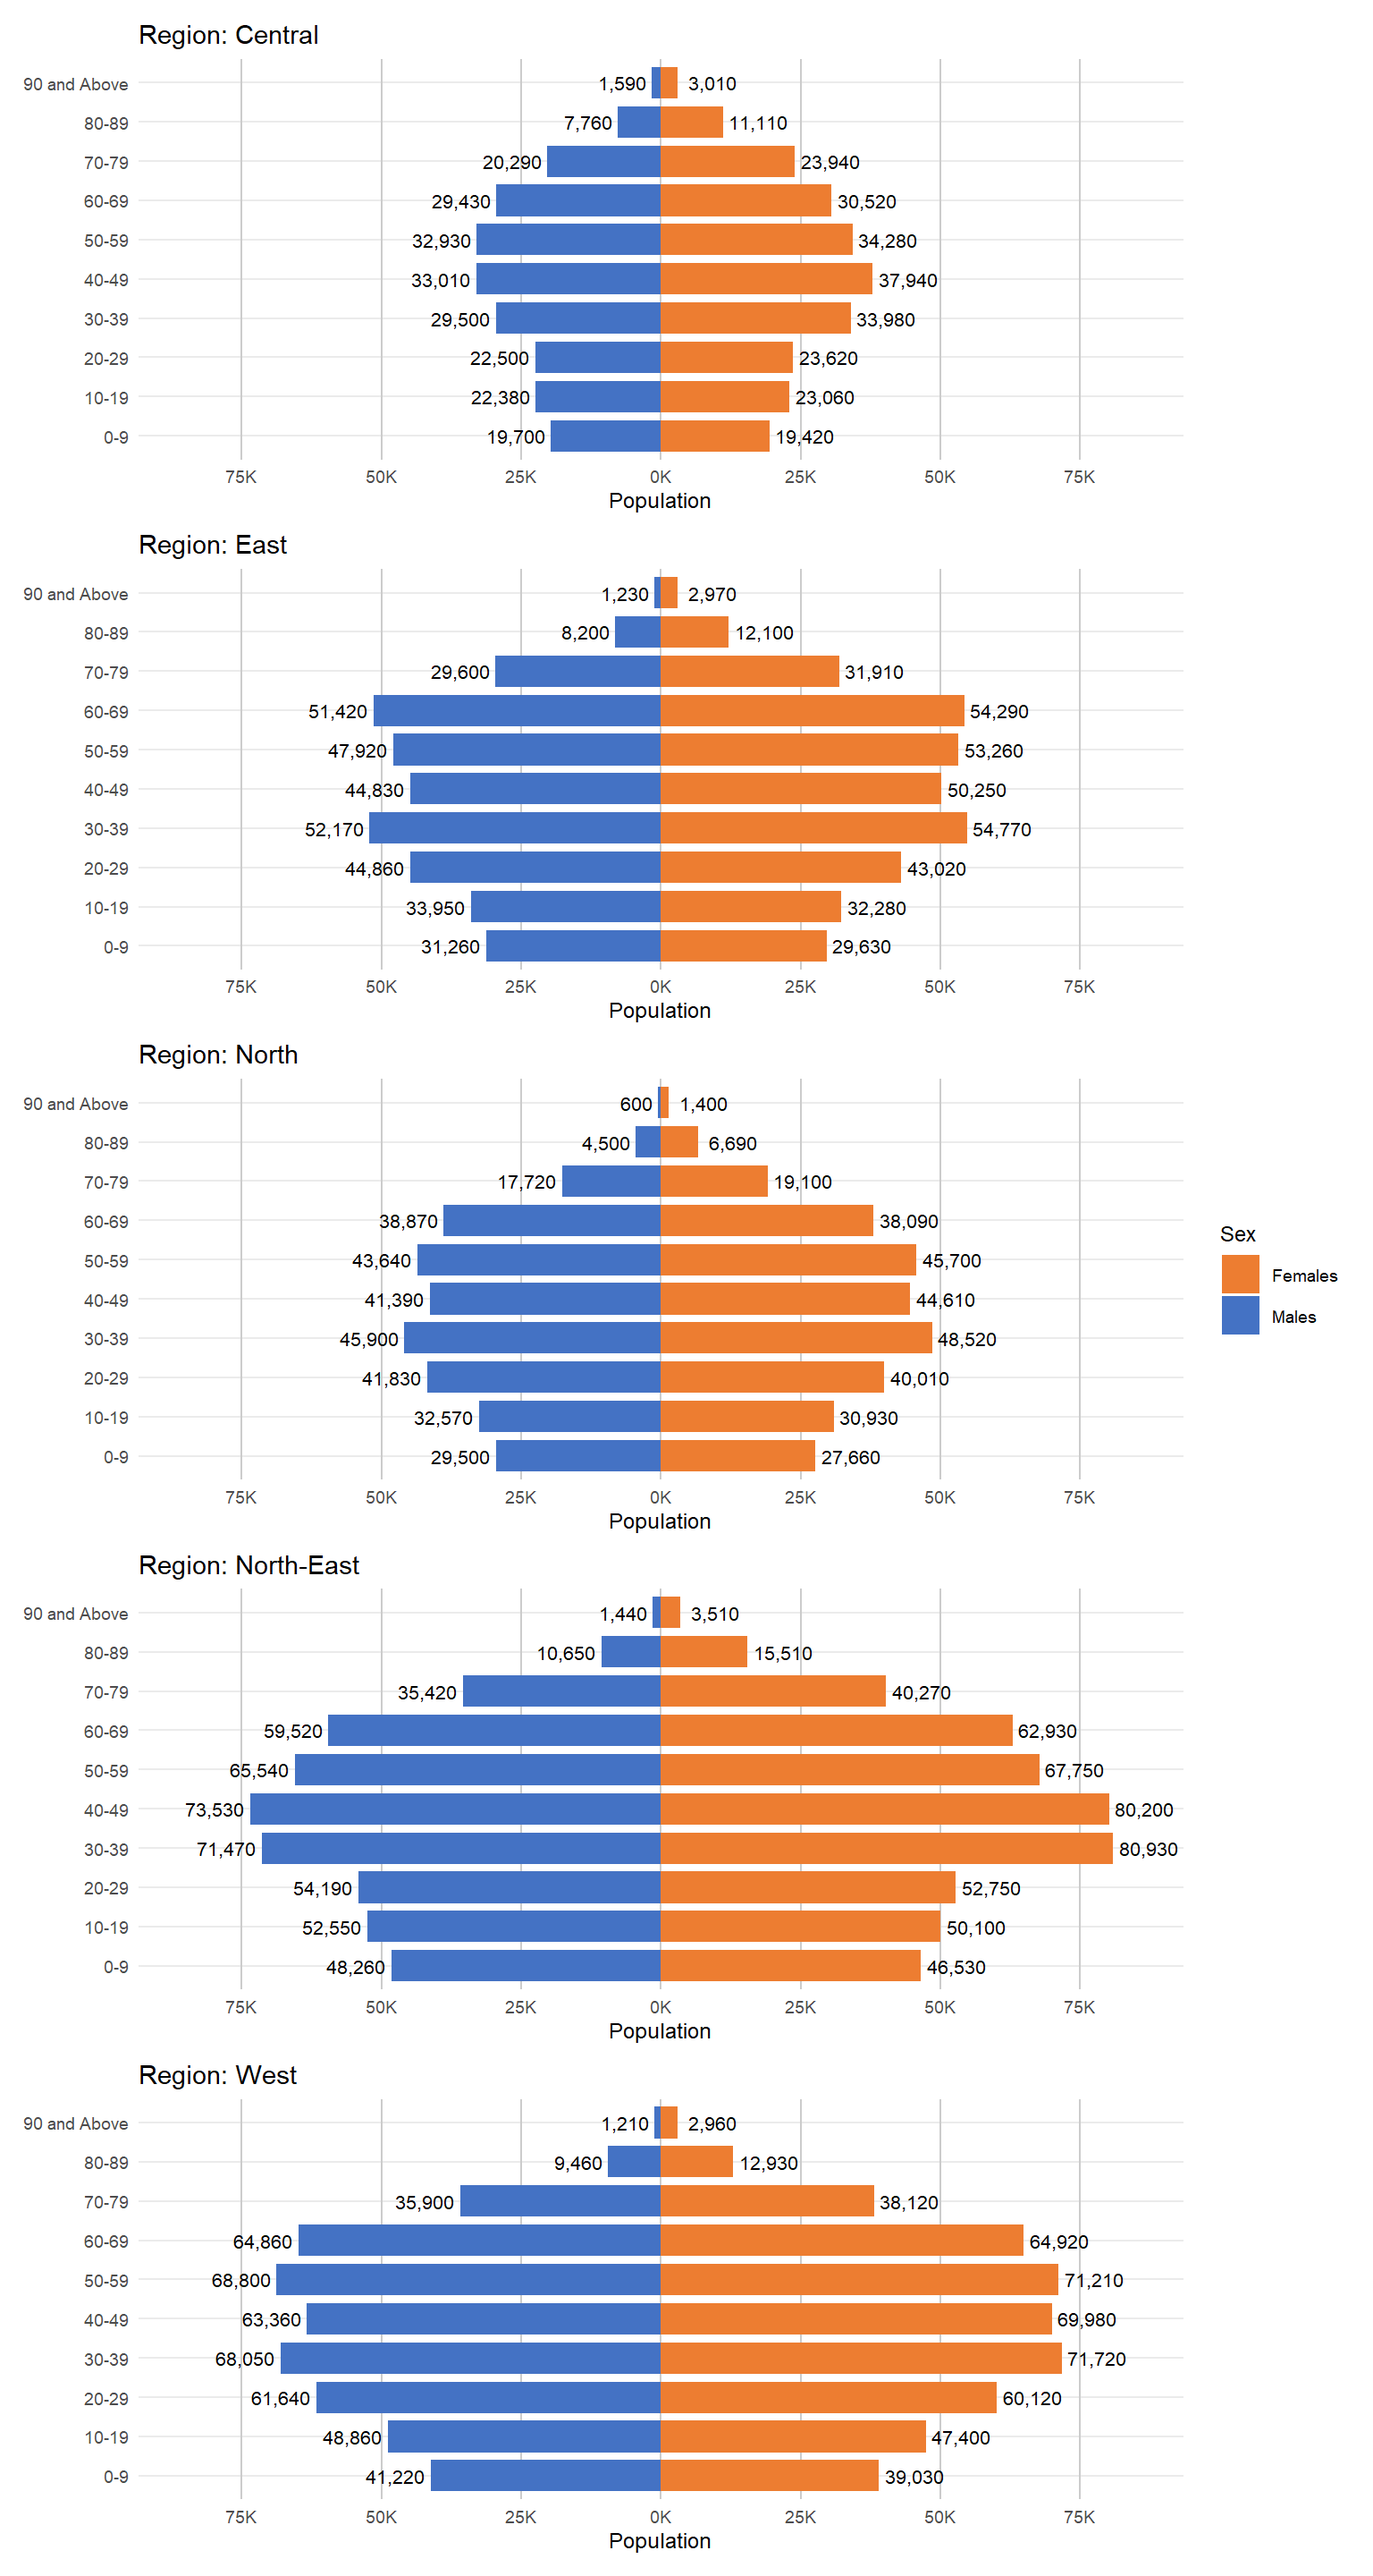
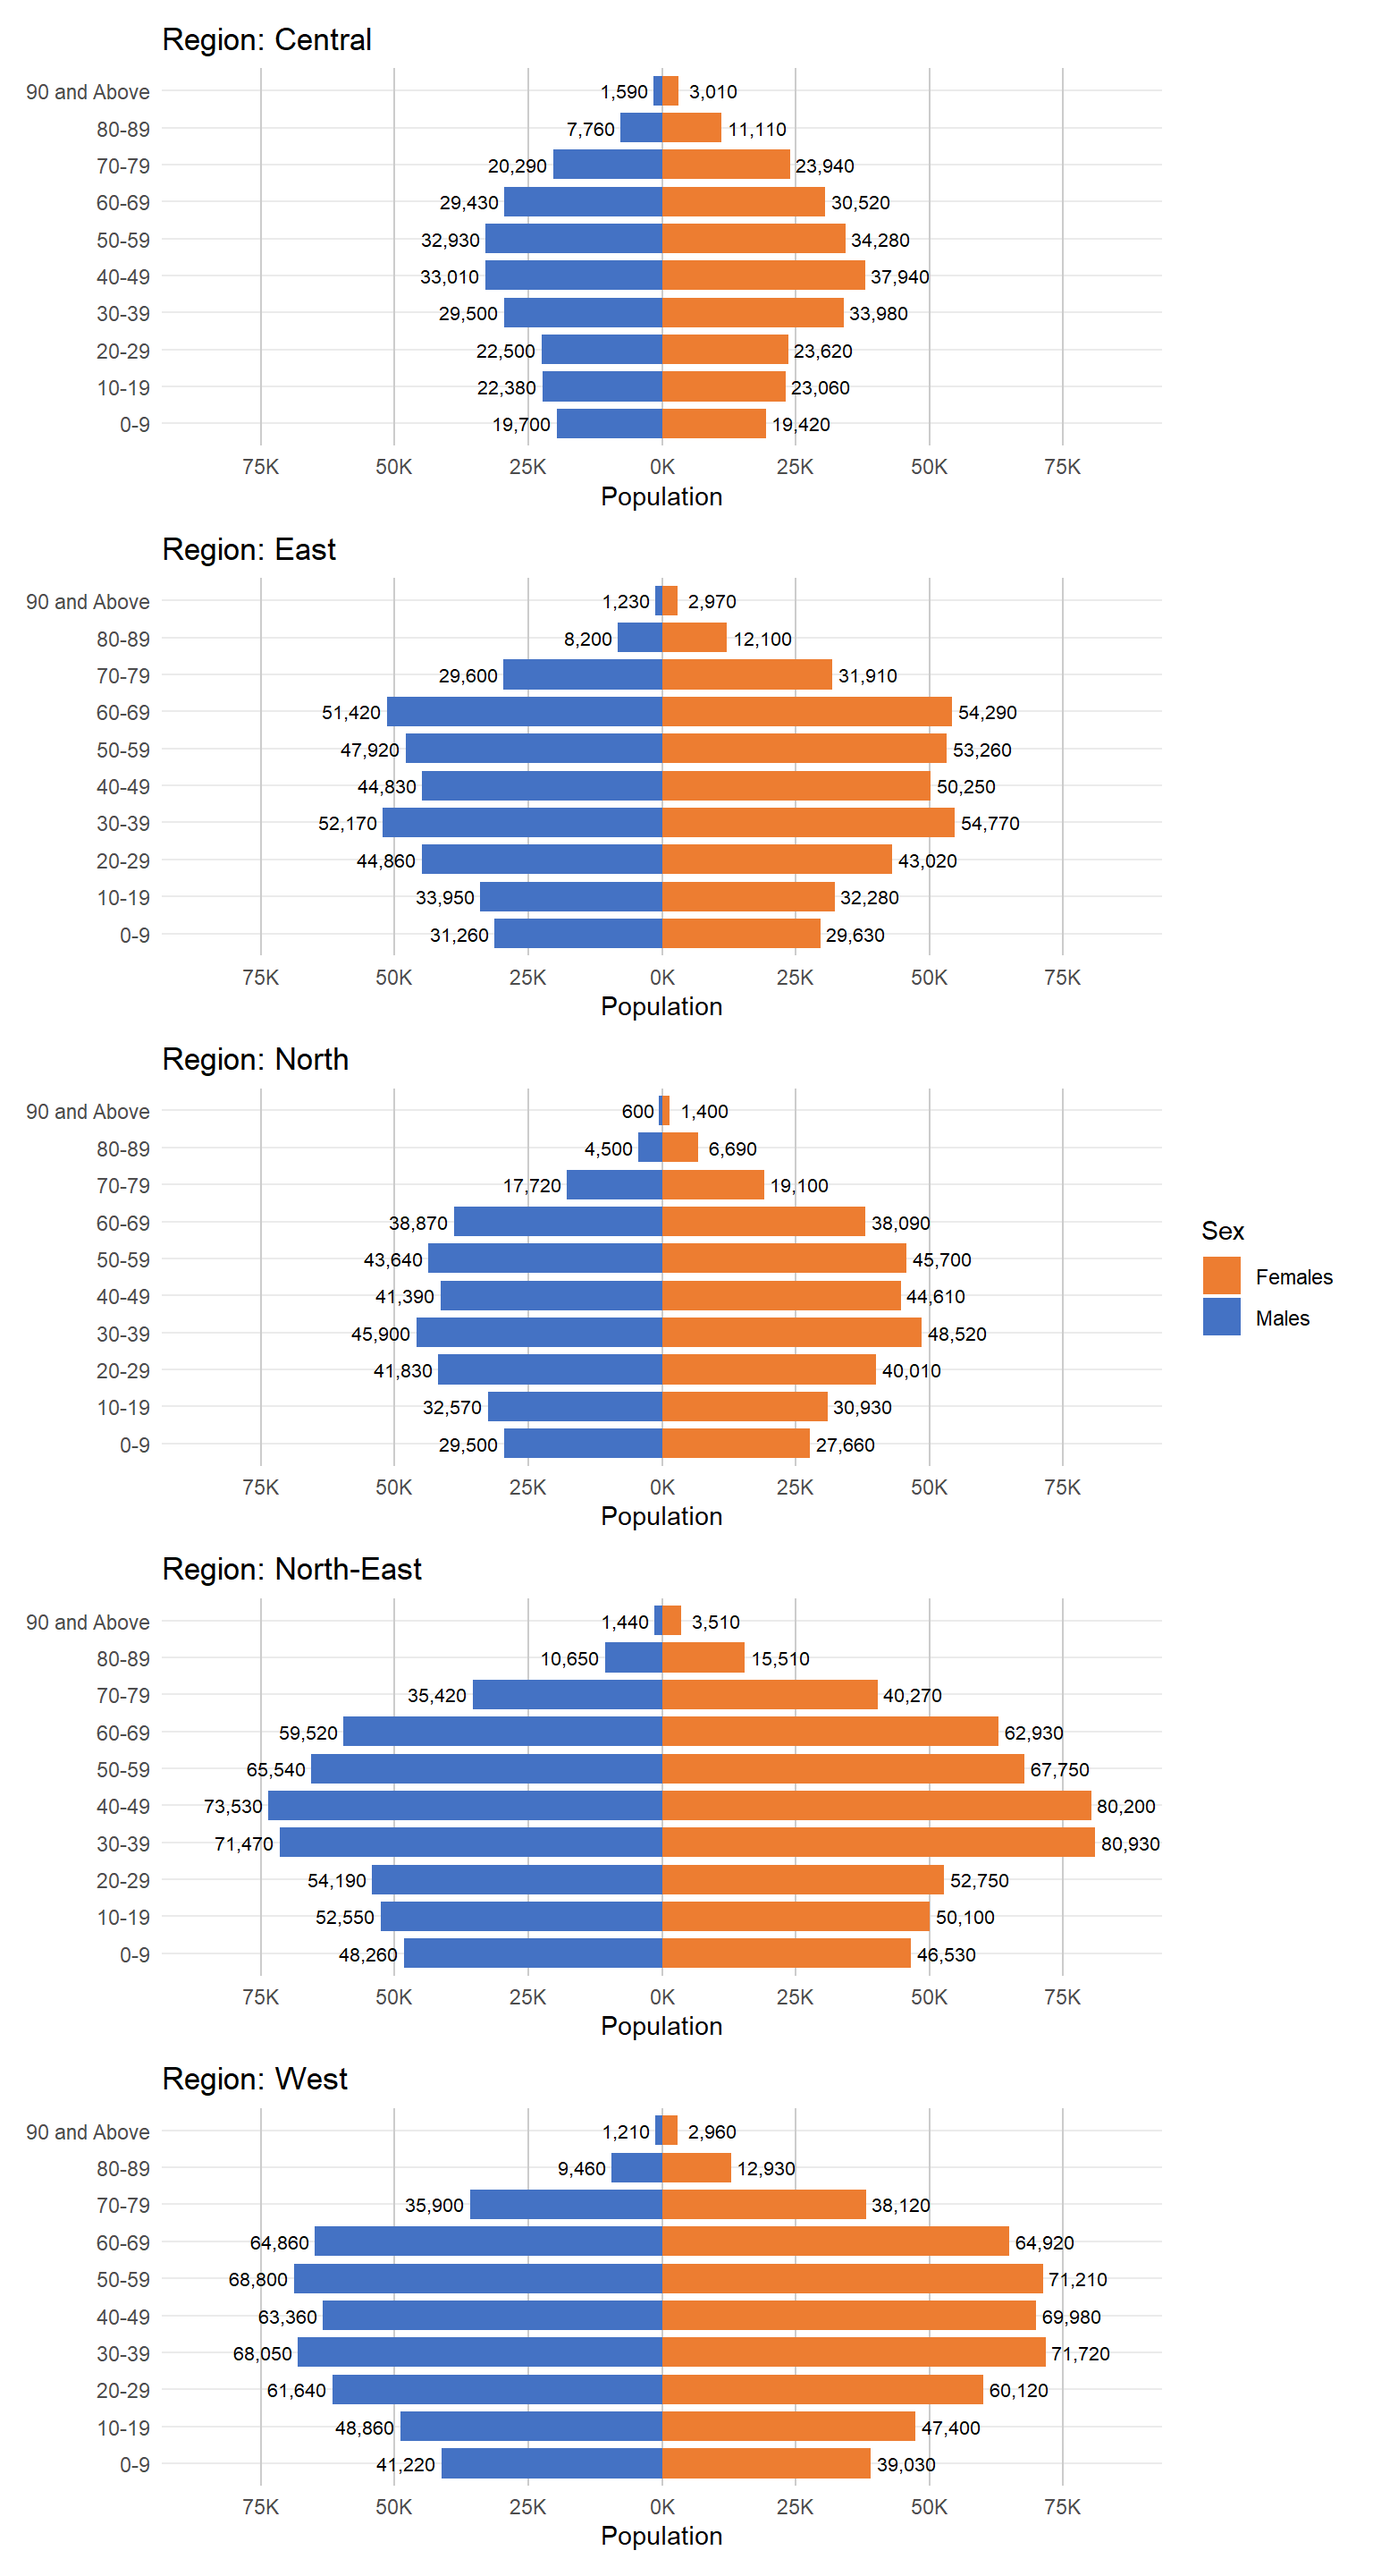
Updated some minor error

diff --git a/_site/Take-Home_Ex/Take-Home_Ex01/Take-Home_Ex01.html b/_site/Take-Home_Ex/Take-Home_Ex01/Take-Home_Ex01.html
@@ -549,7 +549,7 @@ pre > code.sourceCode > span > a:first-child::before { text-decoration: underlin
 </div>
 </div>
 </div>
-<p><strong><em>Observation</em></strong>: From the pie chart, it can be seen that the <strong>proportion of males and females in each area is quite similar</strong>, only differing by 1-2%. However, it can be seen from the pie chart that the proportion of <strong>males are consistently lesser</strong> that the proportion of females in each area. We can then conclude that there are <strong>slightly less males than females in Singapore</strong>. Overall, gender balance is consistent across Singapore.</p>
+<p><strong><em>Observations</em></strong>: From the pie chart, it can be seen that the <strong>proportion of males and females in each area is quite similar</strong>, only differing by 1-2%. However, it can be seen from the pie chart that the proportion of <strong>males are consistently lesser</strong> that the proportion of females in each area. We can then conclude that there are <strong>slightly less males than females in Singapore</strong>. Overall, gender balance is consistent across Singapore.</p>
 <p>Additionally, the <strong>West and North-East Areas each made up 25%</strong> of the total population, accounting for half the population in Singapore while the <strong>North, Central and and East made up of the other half</strong> of Singapore’s population.</p>
 </section>
 <section id="age-sex-pyramid-by-regions" class="level2">
@@ -625,7 +625,7 @@ pre > code.sourceCode > span > a:first-child::before { text-decoration: underlin
 <span id="cb15-16"><a href="#cb15-16" aria-hidden="true" tabindex="-1"></a>      <span class="at">x =</span> <span class="st">"Population"</span>,</span>
 <span id="cb15-17"><a href="#cb15-17" aria-hidden="true" tabindex="-1"></a>      <span class="at">y =</span> <span class="st">"Age Group"</span></span>
 <span id="cb15-18"><a href="#cb15-18" aria-hidden="true" tabindex="-1"></a>    ) <span class="sc">+</span></span>
-<span id="cb15-19"><a href="#cb15-19" aria-hidden="true" tabindex="-1"></a>    <span class="fu">theme_minimal</span>(<span class="at">base_size =</span> <span class="dv">9</span>) <span class="sc">+</span></span>
+<span id="cb15-19"><a href="#cb15-19" aria-hidden="true" tabindex="-1"></a>    <span class="fu">theme_minimal</span>(<span class="at">base_size =</span> <span class="dv">11</span>) <span class="sc">+</span></span>
 <span id="cb15-20"><a href="#cb15-20" aria-hidden="true" tabindex="-1"></a>    <span class="fu">theme</span>(</span>
 <span id="cb15-21"><a href="#cb15-21" aria-hidden="true" tabindex="-1"></a>      <span class="at">legend.position =</span> <span class="st">"none"</span>,</span>
 <span id="cb15-22"><a href="#cb15-22" aria-hidden="true" tabindex="-1"></a>      <span class="at">strip.text =</span> <span class="fu">element_text</span>(<span class="at">face =</span> <span class="st">"bold"</span>),</span>
@@ -648,7 +648,7 @@ pre > code.sourceCode > span > a:first-child::before { text-decoration: underlin
 </div>
 </div>
 </div>
-<p><strong><em>Observation:</em></strong> From the graphs, it can be seen that the population of <strong>Ages</strong> <strong>30 to 69</strong> are consistently larger than the population in the <strong>Age Range</strong> <strong>0 to 29</strong> and <strong>Ages 70 and above</strong> in most areas, resulting in a bulge in the middle of all the graphs in the five areas. This also shows that birth rates has decreased in the recent years.</p>
+<p><strong><em>Observations:</em></strong> From the graphs, it can be seen that the population of <strong>Ages</strong> <strong>30 to 69</strong> are consistently larger than the population in the <strong>Age Range</strong> <strong>0 to 29</strong> and <strong>Ages 70 and above</strong> in most areas, resulting in a bulge in the middle of all the graphs in the five areas. This also shows that birth rates has decreased in the recent years.</p>
 <p>Additionally, the population in the <strong>Age range of 0 to 29</strong> has consistently <strong>more males than females</strong> in all areas <strong>except in the Central Area.</strong> However, those in the <strong>Age range 30 and above</strong> has <strong>more females than males</strong> in all areas with those aged 60 to 69 in the North area being the exception.</p>
 </section>
 <section id="bar-graph-of-dependency-ratio" class="level2">
@@ -707,7 +707,7 @@ pre > code.sourceCode > span > a:first-child::before { text-decoration: underlin
 </div>
 </div>
 </div>
-<p><strong><em>Observation:</em></strong> From the bar graphs above, it can be seen that the <strong>dependency ratio</strong> (Population aged&lt;15 and &gt;65 / Population aged 15-65) <strong>ranges from 0.402 to 0.528</strong>. A ratio of 0.4 means that for every 2.5 working adults, there is 1 dependent, and a ratio of 0.528 means that for every 1.9 working adult, there is 1 dependent.</p>
+<p><strong><em>Observations:</em></strong> From the bar graphs above, it can be seen that the <strong>dependency ratio</strong> (Population aged&lt;15 and &gt;65 / Population aged 15-65) <strong>ranges from 0.402 to 0.528</strong>. A ratio of 0.4 means that for every 2.5 working adults, there is 1 dependent, and a ratio of 0.528 means that for every 1.9 working adult, there is 1 dependent.</p>
 <p>This <strong>average</strong> out to about <strong>1 dependent to 2 working adults</strong> in Singapore, showing a healthy demographic structure.</p>
 </section>
 </section>
